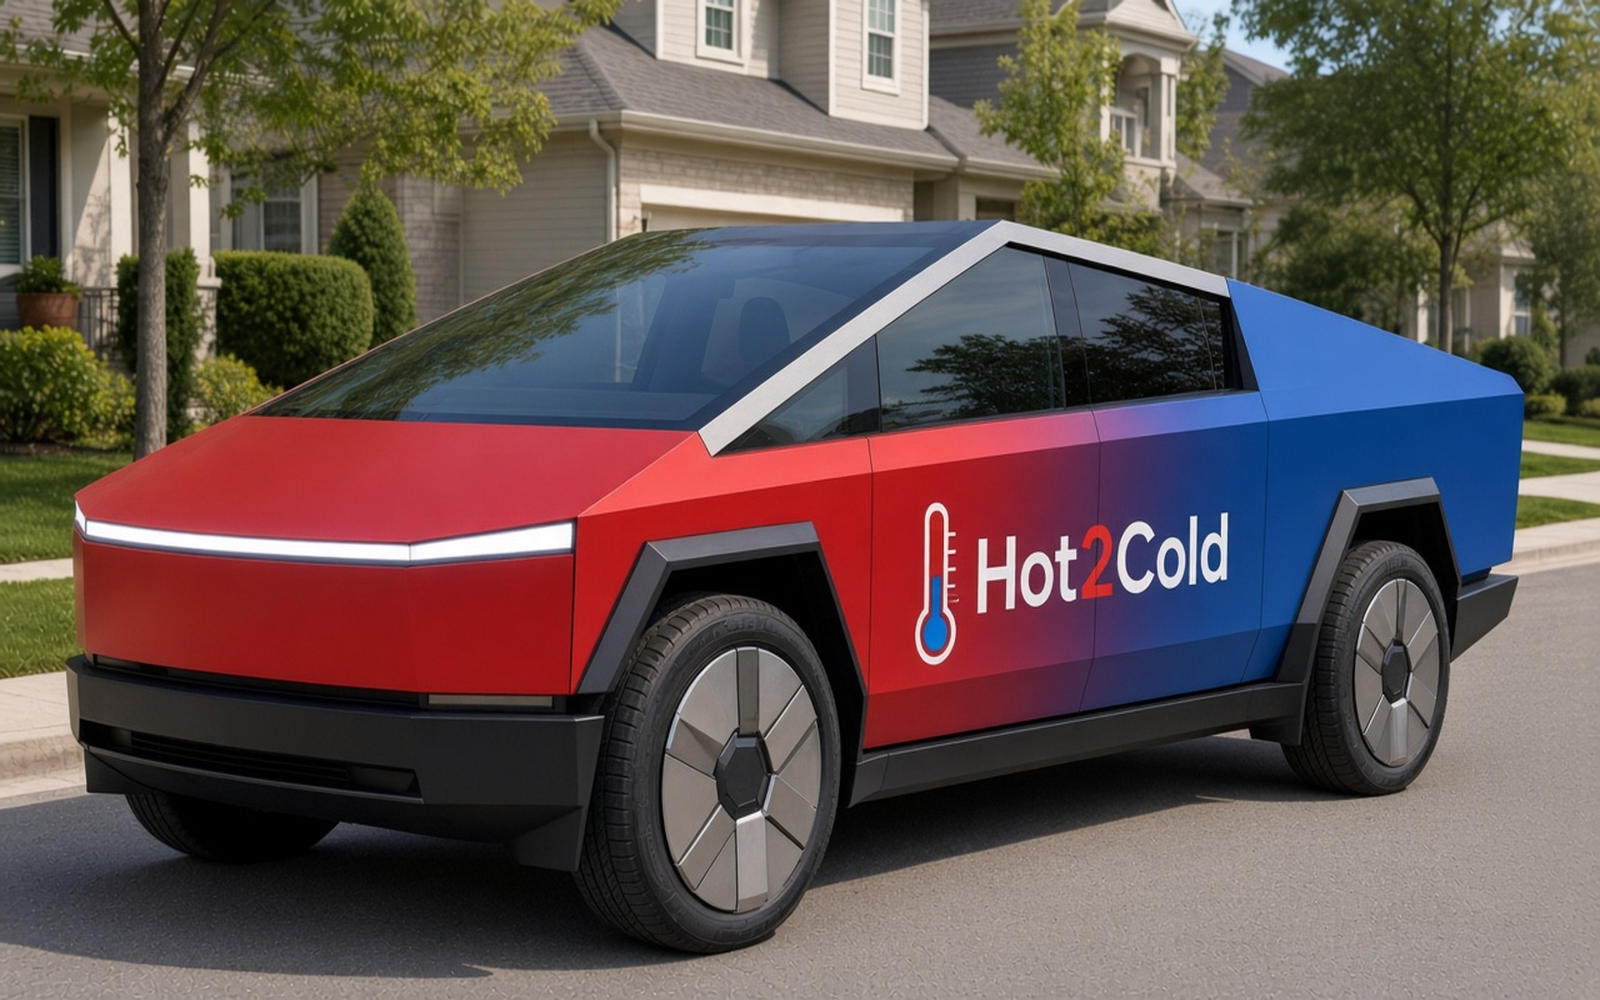
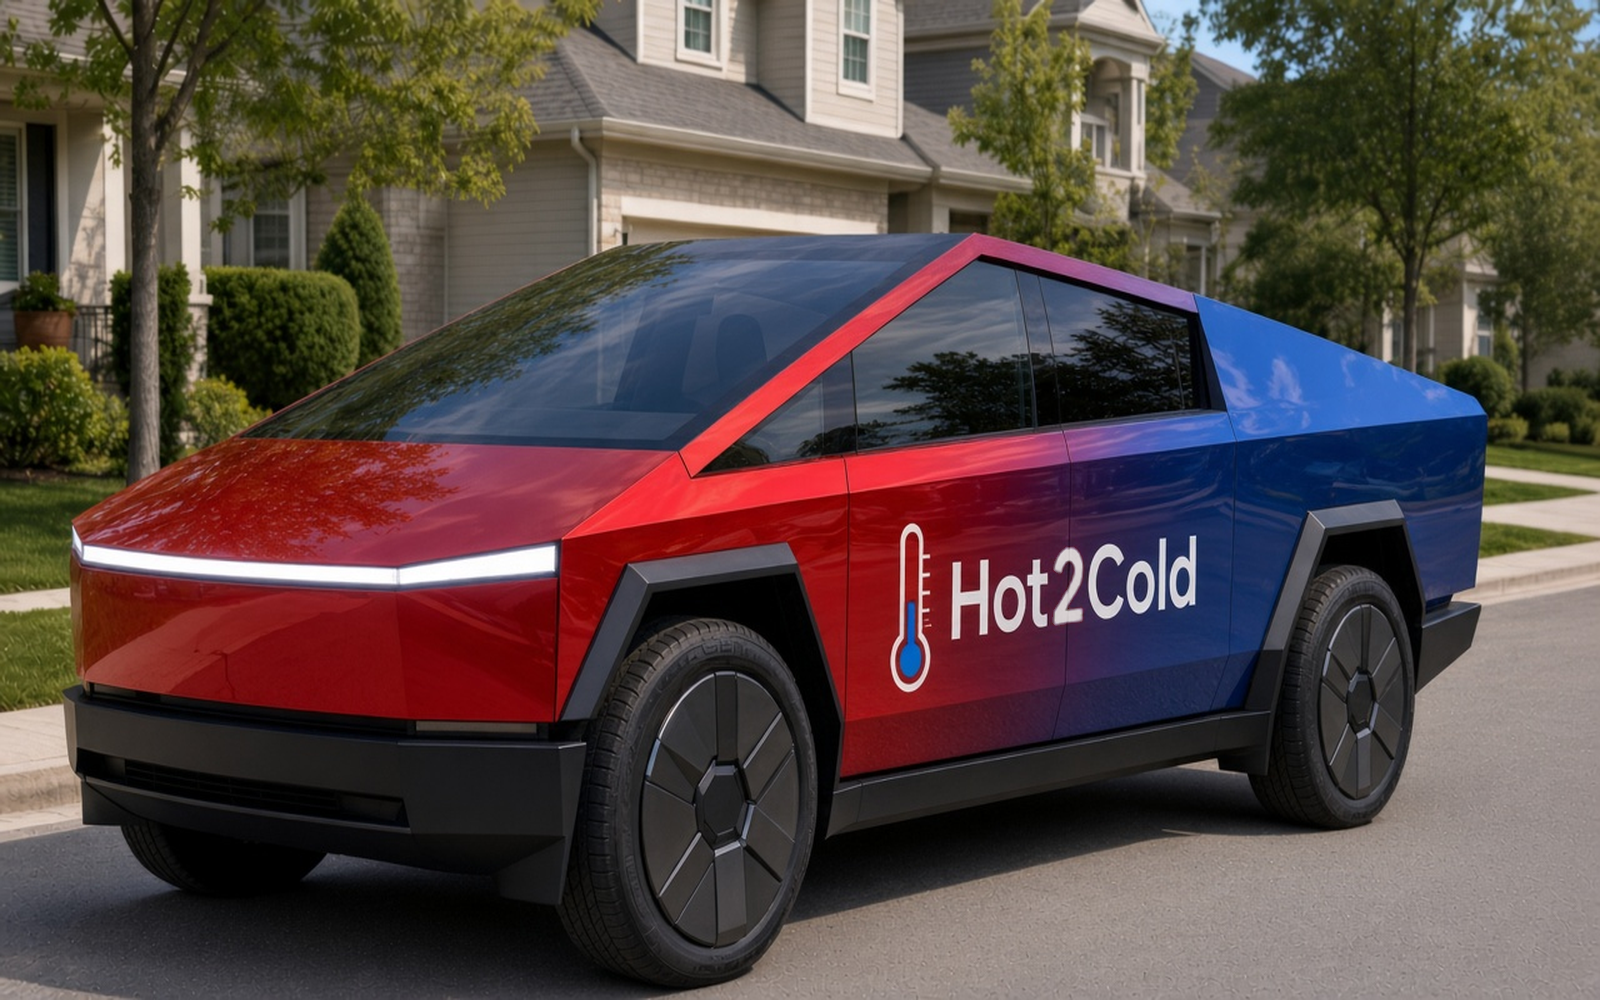
CLEARED draft: swap Landscaping/HVAC/Electric home trade wraps to v13
Ted-approved generated 1600x1000 wrap plates (byte-for-byte). Plumbing
van card unchanged. Wrap names on vehicles are invented, not real brands.

diff --git a/src/pages/Home.jsx b/src/pages/Home.jsx
@@ -18,19 +18,19 @@ const HOME_TRADE_CARDS = [
     trade: 'Landscaping',
     packageId: TRADE_PACKAGE_IDS.landscaping,
     photo: landscapingPhoto,
-    alt: 'Landscaping trade vehicle: white electric pickup with a green stripe wrap, towing a trailer with a riding mower',
+    alt: 'Landscaping trade vehicle: white satin-finish electric pickup with a green stripe wrap and dark wheels, towing a trailer with a riding mower',
   },
   {
     trade: 'HVAC',
     packageId: TRADE_PACKAGE_IDS.hvac,
     photo: hvacPhoto,
-    alt: 'HVAC trade vehicle: angular silver electric pickup with a red-to-blue gradient wrap',
+    alt: 'HVAC trade vehicle: angular electric pickup with a chrome-style glossy red-to-blue gradient wrap and dark wheels',
   },
   {
     trade: 'Electric',
     packageId: TRADE_PACKAGE_IDS.electrical,
     photo: electricPhoto,
-    alt: 'Electric trade vehicle: dark carbon-fiber-look pickup with a yellow lightning logo stripe',
+    alt: 'Electric trade vehicle: dark satin carbon-fiber-look pickup with a yellow lightning stripe wrap and dark wheels',
   },
   {
     trade: 'Plumbing',

diff --git a/src/assets/home-trades/SOURCES.md b/src/assets/home-trades/SOURCES.md
@@ -6,9 +6,9 @@ vehicle wraps that are part of the vehicle. Wrap names on the vehicles
 
 | Card | File | Notes |
 |---|---|---|
-| Landscaping | fleetfit-wrap-card-landscaping.png | Generated. White electric pickup with green stripe wrap, trailer + riding mower. |
-| HVAC | fleetfit-wrap-card-hvac.png | Generated. Angular electric pickup with red-to-blue gradient wrap. |
-| Electric | fleetfit-wrap-card-electric.png | Generated. Dark carbon-fiber-look pickup with yellow lightning stripe. |
+| Landscaping | fleetfit-wrap-card-landscaping.png | Generated v13. White satin-finish electric pickup with green stripe wrap and dark wheels, trailer + riding mower. |
+| HVAC | fleetfit-wrap-card-hvac.png | Generated v13. Angular electric pickup with chrome-style glossy red-to-blue gradient wrap and dark wheels. |
+| Electric | fleetfit-wrap-card-electric.png | Generated v13. Dark satin carbon-fiber-look pickup with yellow lightning stripe wrap and dark wheels. |
 | Plumbing | plumbing-rivian-commercial-van.png | Generated. Rivian Commercial Van with invented Crestvale Plumbing wrap. Unchanged. |
 
 Whole vehicle shown (`object-fit: contain`, card aspect 16:10). No cover-crop.
